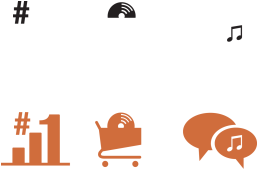
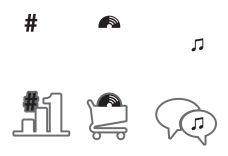
Added footer header changes, and fixed other concerns

diff --git a/Tablet.MvcMusicStore/app/app.js b/Tablet.MvcMusicStore/app/app.js
@@ -3,39 +3,41 @@
 "use strict";
 
 (function () {
-    var app = $.sammy('#main', function () {
+    //Instantiate Sammy Single Page App...
+    var app = $.sammy('#main', function() {
 
-        $(".sales-album, .nav-sales").click(function (e) {
+        //Wiring up handlers for touch menu buttons...
+        $(".sales-album, .nav-sales").click(function(e) {
             e.preventDefault();
             e.stopPropagation();
             window.location = "#/sales";
 
         });
 
-        $(".social-album, .nav-social").click(function (e) {
+        $(".social-album, .nav-social").click(function(e) {
             e.preventDefault();
             e.stopPropagation();
             window.location = "#/social";
 
         });
 
-        $(".charts-album, .nav-music").click(function (e) {
+        $(".charts-album, .nav-music").click(function(e) {
             e.preventDefault();
             e.stopPropagation();
             window.location = "#/";
 
         });
 
-        $("#main-header, .main-header-pennant").click(function (e) {
+        $("#main-header, .main-header-pennant").click(function(e) {
             e.preventDefault();
             e.stopPropagation();
             window.location = "#/";
-            
+
         });
 
-
-        this.get('#/', function (context) {
-            this.partial('app/views/main.html?v=1', null, function () {
+        //Wiring up sammy routes...
+        this.get('#/', function(context) {
+            this.partial('app/views/main.html?v=1', null, function() {
 
                 createMainView();
 
@@ -47,8 +49,8 @@
             });
         });
 
-        this.get('#/social', function (context) {
-            this.partial('app/views/social.html?v=1', null, function () {
+        this.get('#/social', function(context) {
+            this.partial('app/views/social.html?v=1', null, function() {
 
                 createSocialView();
 
@@ -60,22 +62,9 @@
             });
         });
 
-        this.get('#/music', function (context) {
-            this.partial('app/views/music.html?v=1', null, function () {
+        this.get('#/sales', function(context) {
 
-                createMusicView();
-
-                $(".main-nav-item-selected").removeClass("main-nav-item-selected");
-                $(".main-nav-item-icon-selected").removeClass("main-nav-item-icon-selected");
-                $(".nav-music-icon").addClass("main-nav-item-icon-selected");
-                $(".nav-music").addClass("main-nav-item-selected");
-
-            });
-        });
-
-        this.get('#/sales', function (context) {
-
-            this.partial('app/views/sales.html?v=1.1', null, function () {
+            this.partial('app/views/sales.html?v=1.1', null, function() {
 
                 createSalesView();
 
@@ -89,11 +78,11 @@
 
     });
 
-    $(function () {
+    $(function() {
         $(document).data("kendoSkin", "uniform");
         app.run('#/');
 
     });
 
-})()
+})();
 

diff --git a/Tablet.MvcMusicStore/Content/Site.css b/Tablet.MvcMusicStore/Content/Site.css
@@ -22,31 +22,18 @@ h1 {
     }
 
 #main-header {
-    margin: 20px 0;
-    width: 85%;
+    margin: 0 0 40px 0;
+    width: 100%;
     background: #F18449;
     color: #fff;
     height: 60px;
-    float: left;
-    padding-left: 125px;
     background-image: url("../img/3_RecordsLogo.png");
     background-repeat: no-repeat;
 }
 
-.main-header-pennant {
-    width: 0px;
-    height: 0px;
-    border-right: 30px solid transparent;
-    border-top: 30px solid #F18449;
-    border-left: none;
-    border-bottom: 30px solid #F18449;
-    float: left;
-    margin: 20px 0;
-}
-
 .main-title {
     line-height: 40px;
-    margin: 10px 0;
+    margin: 10px 125px;
     font-size: 2.5em;
     color: white;
     font-weight: bold;
@@ -80,7 +67,6 @@ h1 {
 .main-nav-item-icon {
     background-image: url("../img/Header_Icons_final.png");
     background-repeat: no-repeat;
-    background-position-y: -108px;
     height: 60px;
     width: 80px;
     line-height: 60px;
@@ -89,27 +75,27 @@ h1 {
 
 
 .nav-sales-icon {
-    background-position: -88px -110px;
+    background-position: -70px -10px;
 }
 
 .nav-social-icon {
-    background-position: -182px  -110px;
+    background-position: -145px -10px;
 }
 
 .nav-music-icon {
-    background-position: 0px  -110px;
+    background-position: 0px -10px;
 }
 
 .main-nav-item-selected > .nav-sales-icon {
-    background-position: -88px 0px;
+    background-position: -70px -88px;
 }
 
 .main-nav-item-selected > .nav-social-icon {
-    background-position: -182px 0px;
+    background-position: -145px -88px;
 }
 
 .main-nav-item-selected > .nav-music-icon {
-    background-position: 0px  0px;
+    background-position: 0px -88px;
 }
 
 
@@ -365,6 +351,23 @@ h2 {
 .simple-title {
     text-align: center;
     margin: 0 auto 10px auto;
+}
+
+.main-footer {
+    float: left;
+    width: 100%;
+    margin: 20px auto 10px auto;
+    height: 80px;
+    line-height: 80px;
+    vertical-align: middle;
+    text-align: center;
+}
+
+.telerik-logo,
+.ria-logo,
+.kendo-logo {
+    margin: 0 50px;
+    border:0;
 }
 
 

diff --git a/Tablet.MvcMusicStore/app/main-view.js b/Tablet.MvcMusicStore/app/main-view.js
@@ -4,6 +4,8 @@
 
 function createMainView() {
 
+    $(".main-title").text("Music Store Sales");
+    
     displayMainViewTotals();
     displayTopSingles();
     displayTopAlbums();
